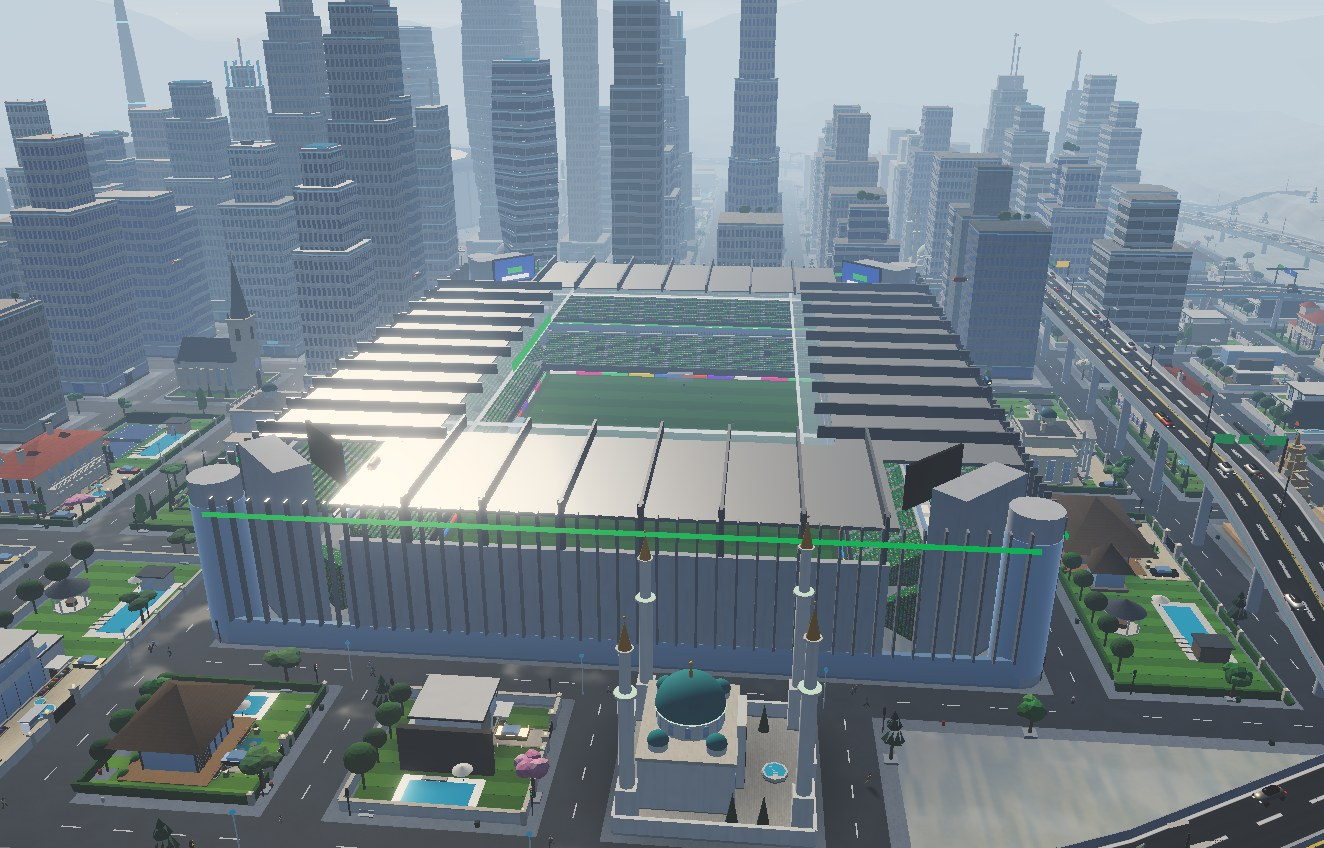
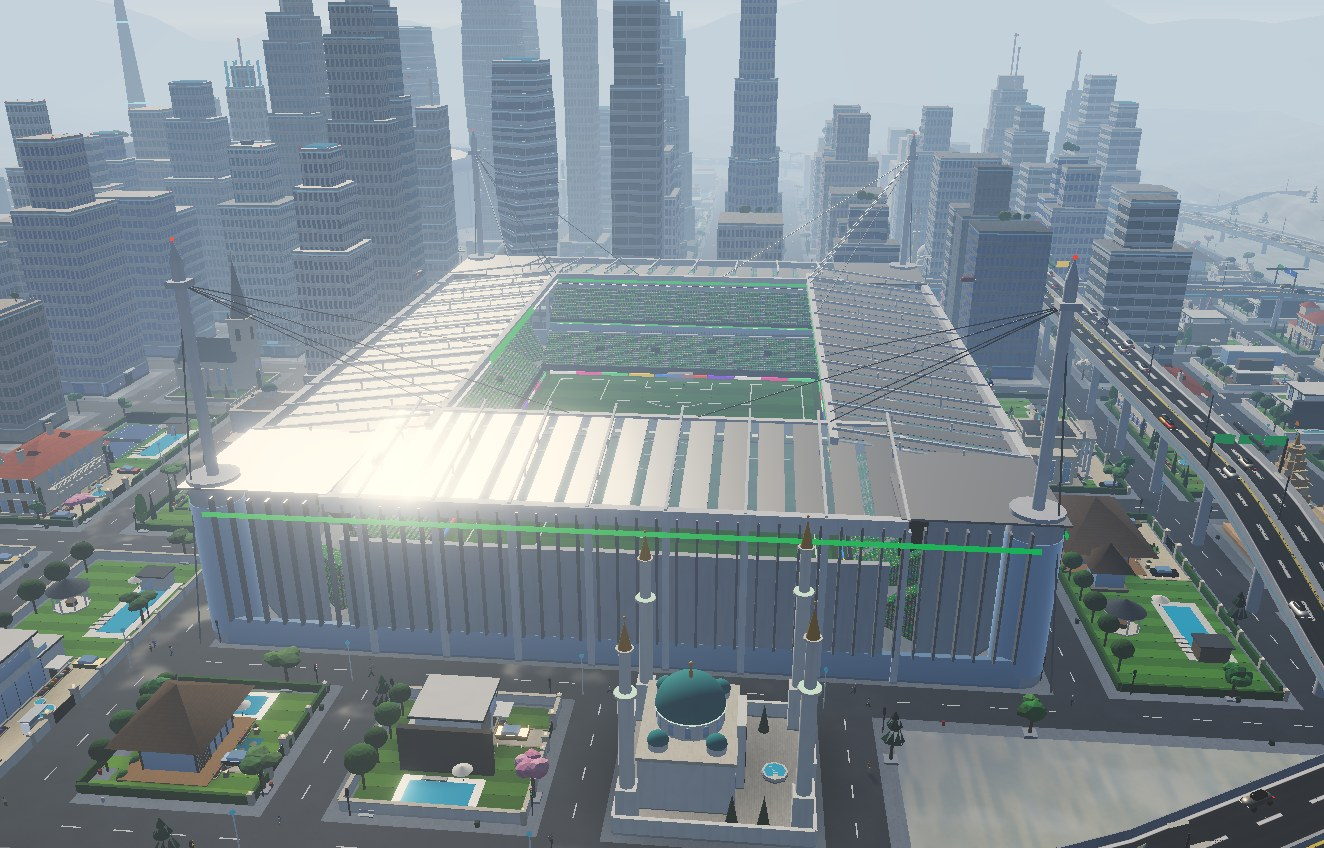
Stadium roof: panelled and translucent bays rising to the pitch, trusses, back beam, lit fascia with floodlights and catwalk, corner roofs, cable-stayed masts
Claude-Session: https://claude.ai/code/session_014yo4DpHJhzR4RbKay17FEp

diff --git a/src/explorer/venues.ts b/src/explorer/venues.ts
@@ -192,6 +192,21 @@ export function footballStadium(out: DistrictData, add: Add, b: Building, warm: 
     { off: endFront, len: Wp + 14, rot: Math.PI / 2, main: false },
     { off: endFront, len: Wp + 14, rot: -Math.PI / 2, main: false },
   ];
+  // the roof: same height on every stand, rising 4 m from the back columns to the leading edge
+  const standTop = upperY + upperRows * upperRowH;
+  const roofY = standTop + 7;
+  const rise = 4;
+  // where the stay cables from the corner masts meet the leading edge
+  const anchors: [number, number, number][] = [];
+  // a straight member between two points in the pitch frame (cables, braces)
+  const member = (p0: [number, number, number], p1: [number, number, number], w: number, mat: DMat, col: string) => {
+    const dx = p1[0] - p0[0];
+    const dy = p1[1] - p0[1];
+    const dz = p1[2] - p0[2];
+    const len = Math.hypot(dx, dy, dz);
+    // yaw sends local z along the horizontal direction, a negative pitch lifts it to the slope
+    A('box', mat, (p0[0] + p1[0]) / 2, (p0[1] + p1[1]) / 2 - w / 2, (p0[2] + p1[2]) / 2, w, w, len, col, Math.atan2(dx, dz), -Math.asin(dy / len));
+  };
   for (const st of stands) {
     // the stand at offset `off` from the centre on the side the rotation points away from
     const ox = Math.sin(st.rot) * -st.off;
@@ -222,20 +237,64 @@ export function footballStadium(out: DistrictData, add: Add, b: Building, warm: 
       const u = -st.len / 2 + (k * st.len) / 5;
       add2('box', 'dark', sx(u, 7), 1.2 + 7 * 0.6 * rowH / rowD, sz(u, 7), 2.4, 2.4, 2.2, '#16181c', st.rot);
     }
-    // roof: a cantilevered slab with trusses and a translucent leading edge, floodlights along it
-    // the roof floats well above the last row, carried on columns at the back
-    const roofY = top + 7;
-    const roofDepth = backAll + 6;
-    add2('box', 'metal', sx(0, backAll - roofDepth / 2 + 1), roofY, sz(0, backAll - roofDepth / 2 + 1), st.len + 4, 0.6, roofDepth, '#dfe3e8', st.rot);
-    add2('box', 'skylight', sx(0, backAll - roofDepth - 2), roofY + 0.1, sz(0, backAll - roofDepth - 2), st.len + 4, 0.25, 6, '#d8f0ff', st.rot);
-    for (let k = 0; k <= Math.floor(st.len / 12); k++) {
-      const u = -st.len / 2 + k * 12;
-      add2('box', 'metal', sx(u, backAll - roofDepth / 2), roofY + 0.6, sz(u, backAll - roofDepth / 2), 0.5, 2.2, roofDepth + 4, '#b8bcc4', st.rot);
-      add2('box', 'metal', sx(u, backAll + 0.6), 0, sz(u, backAll + 0.6), 0.9, roofY + 2.8, 0.9, '#b8bcc4', st.rot);
+    // roof: alternating metal panels and translucent strips running from the back beam to the
+    // leading edge, tilted up towards the pitch, with exposed trusses on top
+    const bBack = backAll + 1.2;
+    const roofDepth = backAll + 7;
+    const bFront = bBack - roofDepth;
+    const bMid = (bBack + bFront) / 2;
+    const tilt = -Math.atan(rise / roofDepth);
+    const slab = roofDepth / Math.cos(tilt);
+    const span = st.len + 6;
+    const bay = 6;
+    const bays = Math.round(span / bay);
+    for (let k = 0; k < bays; k++) {
+      const u = -span / 2 + (k + 0.5) * (span / bays);
+      add2('box', 'metal', sx(u - 0.8, bMid), roofY + rise / 2, sz(u - 0.8, bMid), span / bays - 1.6, 0.35, slab, k % 2 ? '#e9ecf0' : '#dde1e6', st.rot, tilt);
+      add2('box', 'skylight', sx(u + (span / bays) / 2 - 0.8, bMid), roofY + rise / 2 + 0.05, sz(u + (span / bays) / 2 - 0.8, bMid), 1.6, 0.25, slab, '#cfeaff', st.rot, tilt);
     }
-    add2('box', 'glow', sx(0, backAll - roofDepth - 4.6), roofY - 0.2, sz(0, backAll - roofDepth - 4.6), st.len, 0.5, 0.6, '#f4faff', st.rot);
-    // signage on the main stand roof fascia
-    if (st.main) add2('box', 'glow', sx(0, backAll - roofDepth - 5), roofY + 0.5, sz(0, backAll - roofDepth - 5), 40, 2, 0.2, home, st.rot);
+    // primary trusses: a deep top chord over every second bay, posts and a diagonal web
+    for (let k = 0; k <= bays; k += 2) {
+      const u = -span / 2 + k * (span / bays);
+      add2('box', 'plaster', sx(u, bMid), roofY + rise / 2 + 2.1, sz(u, bMid), 0.45, 0.45, slab + 1, '#f4f6f8', st.rot, tilt);
+      for (const f of [0, 0.33, 0.66]) {
+        const b = bBack - roofDepth * f;
+        const y = roofY + rise * f;
+        add2('box', 'plaster', sx(u, b), y + 0.35, sz(u, b), 0.3, 1.9 - f * 0.9, 0.3, '#f4f6f8', st.rot);
+      }
+      // the back column and its tie-down
+      add2('box', 'plaster', sx(u, bBack), 0, sz(u, bBack), 1.1, roofY + 0.4, 1.1, '#e8ebef', st.rot);
+    }
+    // a white box beam along the back, and the leading edge: a deep fascia with an LED band in
+    // club colours on its face, floodlights beneath and a maintenance catwalk
+    add2('box', 'plaster', sx(0, bBack), roofY - 0.4, sz(0, bBack), span, 2.6, 1.6, '#eef0f3', st.rot);
+    const frontY = roofY + rise;
+    add2('box', 'plaster', sx(0, bFront), frontY - 1.9, sz(0, bFront), span, 2.6, 1.4, '#f4f6f8', st.rot);
+    add2('box', 'glow', sx(0, bFront - 0.72), frontY - 1.4, sz(0, bFront - 0.72), span, 0.7, 0.08, st.main ? '#ffffff' : home, st.rot);
+    add2('box', 'metal', sx(0, bFront + 2.2), frontY - 2.6, sz(0, bFront + 2.2), span, 0.25, 1.4, '#6a6f78', st.rot);
+    for (let k = 0; k < Math.floor(span / 3); k++) {
+      const u = -span / 2 + 1.5 + k * 3;
+      add2('box', 'glow', sx(u, bFront + 0.3), frontY - 2.35, sz(u, bFront + 0.3), 1.1, 0.45, 0.7, '#fff8e6', st.rot);
+    }
+    // signage on the main stand fascia
+    if (st.main) add2('box', 'glow', sx(0, bFront - 0.78), frontY - 1.75, sz(0, bFront - 0.78), 42, 2, 0.06, home, st.rot);
+    for (const f of [-0.42, -0.14, 0.14, 0.42]) anchors.push([sx(st.len * f, bFront), frontY + 0.7, sz(st.len * f, bFront)]);
+  }
+  // corner roofs close the gaps between the stands, each with a fascia joining the two edges
+  for (const s of [-1, 1]) for (const t of [-1, 1]) {
+    const u0 = s * ((L + 10) / 2 + 3);
+    const u1 = s * (OW - 1);
+    const v0 = t * ((Wp + 14) / 2 + 3);
+    const v1 = t * (OD - 1);
+    const cx = (u0 + u1) / 2;
+    const cz = (v0 + v1) / 2;
+    A('box', 'metal', cx, roofY + rise / 2, cz, Math.abs(u1 - u0) + 2, 0.35, Math.abs(v1 - v0) + 2, '#e3e6ea');
+    A('box', 'skylight', cx, roofY + rise / 2 + 0.05, cz, Math.abs(u1 - u0) * 0.5, 0.25, Math.abs(v1 - v0) * 0.5, '#cfeaff');
+    // fascia from the end of the side-stand edge to the end of the end-stand edge
+    const pSide: [number, number, number] = [s * ((L + 16) / 2), roofY + rise - 1.9, t * (sideFront - 5.8)];
+    const pEnd: [number, number, number] = [s * (endFront - 5.8), roofY + rise - 1.9, t * ((Wp + 20) / 2)];
+    member(pSide, pEnd, 2.4, 'plaster', '#f4f6f8');
+    member([pSide[0], pSide[1] + 0.9, pSide[2] - t * 0.7], [pEnd[0] - s * 0.7, pEnd[1] + 0.9, pEnd[2]], 0.7, 'glow', home);
   }
   // corner fills with giant screens above
   for (const s of [-1, 1]) for (const t of [-1, 1]) {
@@ -243,11 +302,12 @@ export function footballStadium(out: DistrictData, add: Add, b: Building, warm: 
     const cv2 = t * (W2 + 18);
     const rot = Math.atan2(s, t);
     for (let k = 0; k < 18; k++) A('box', 'crowd', cu2 - s * (10 - k * 0.6) * 0.7, 1.2, cv2 - t * (10 - k * 0.6) * 0.7, 12, (k + 1) * rowH * 1.1, 0.9, seat, rot);
-    A('box', 'plaster', cu2 + s * 4, 0, cv2 + t * 4, 16, 30, 6, '#c8ccd2', rot);
-    A('box', 'dark', cu2 - s * 2, 24, cv2 - t * 2, 14, 7.5, 0.6, '#101216', rot);
-    A('box', 'glow', cu2 - s * 2.35, 24.4, cv2 - t * 2.35, 13.2, 6.7, 0.1, '#1a4a9a', rot);
-    A('box', 'glow', cu2 - s * 2.4, 26.9, cv2 - t * 2.4, 5, 1.6, 0.1, home, rot);
-    A('box', 'glow', cu2 - s * 2.4, 25, cv2 - t * 2.4, 9, 1.2, 0.1, '#ffffff', rot);
+    // a pylon under the corner roof carries the giant screen
+    A('box', 'plaster', cu2 + s * 4, 0, cv2 + t * 4, 16, roofY + 1, 6, '#c8ccd2', rot);
+    A('box', 'dark', cu2 - s * 2, roofY - 10, cv2 - t * 2, 14, 7.5, 0.6, '#101216', rot);
+    A('box', 'glow', cu2 - s * 2.35, roofY - 9.6, cv2 - t * 2.35, 13.2, 6.7, 0.1, '#1a4a9a', rot);
+    A('box', 'glow', cu2 - s * 2.4, roofY - 7.1, cv2 - t * 2.4, 5, 1.6, 0.1, home, rot);
+    A('box', 'glow', cu2 - s * 2.4, roofY - 9, cv2 - t * 2.4, 9, 1.2, 0.1, '#ffffff', rot);
   }
 
   // ── facade: finned cladding with a lit band, stair towers, entrances, a fan plaza
@@ -261,6 +321,23 @@ export function footballStadium(out: DistrictData, add: Add, b: Building, warm: 
       A('box', 'metal', pu, 5, pv, rot ? 1.2 : 0.35, fh - 5, rot ? 0.35 : 1.2, k % 2 ? '#e6e9ee' : '#d4d8de');
     }
     A('box', 'glow', u + (rot ? Math.sign(u) * 1.4 : 0), fh - 3, v + (rot ? 0 : Math.sign(v) * 1.4), rot ? 0.2 : len, 0.8, rot ? len : 0.2, home);
+  }
+  // four masts rise from the stair towers; stay cables hold the leading edges of the roof
+  for (const s of [-1, 1]) for (const t of [-1, 1]) {
+    const mx = s * (OW - 4);
+    const mz = t * (OD - 4);
+    const mTop = fh + 36;
+    A('cyl', 'plaster', mx, fh + 2, mz, 1.8, mTop - fh - 2, 1.8, '#f4f6f8');
+    A('cone', 'plaster', mx, mTop, mz, 1.8, 3, 1.8, '#f4f6f8');
+    A('sphere', 'glow', mx, mTop + 3, mz, 0.6, 0.6, 0.6, '#ff3426');
+    A('box', 'plaster', mx, mTop - 4, mz, 3, 1, 3, '#e8ebef');
+    const near = anchors
+      .map((a) => ({ a, d: Math.hypot(a[0] - mx, a[2] - mz) }))
+      .sort((p, q) => p.d - q.d)
+      .slice(0, 4);
+    for (const { a } of near) member([mx, mTop - 3.6, mz], a, 0.16, 'metal', '#d8dce2');
+    // back-stays down to the ground
+    member([mx, mTop - 3.6, mz], [mx + s * 4.5, 0.2, mz + t * 4.5], 0.2, 'metal', '#d8dce2');
   }
   for (const s of [-1, 1]) for (const t of [-1, 1]) {
     A('cyl', 'plaster', s * (OW - 4), 0, t * (OD - 4), 8, fh + 2, 8, '#d4d8de');

diff --git a/PHASE2_REPORT.md b/PHASE2_REPORT.md
@@ -542,6 +542,14 @@ Requested: "Make a basketball NBA sized stadium, make a football Premier League 
   - Tests now assert that every pitch marking is above 0.16 m and every court marking above 0.23 m.
   - The stadium and court photos in `docs/screenshots/venues/` were re-shot.
 
+**Follow-up: stadium roof.** Requested: "make the stadium roofs look better". Before, each stand had a flat grey slab with thin ribs, and the corners were open.
+- **Panels.** The roof is now 6 m bays of alternating metal panels (two tones) and translucent strips, tilted to rise 4 m from the back to the leading edge.
+- **Structure.** White trusses with top chords and posts sit over every second bay. Back columns carry a white box beam.
+- **Leading edge.** A deep white fascia carries an LED band in club colours (white on the main stand, which also has a lit sign), a row of floodlights every 3 m beneath it, and a catwalk.
+- **Corners.** Corner roofs close the gaps, with diagonal fascias and LED bands joining the stand edges. The giant screens now hang under the corner roofs from pylons.
+- **Masts.** Four masts rise from the stair towers. Each has red beacons, four stay cables to the nearest points of the leading edges, and a back-stay to the ground.
+- **Photos.** `docs/screenshots/venues/stadium-roof.jpg` and `stadium-roof-night.jpg` are new; the stadium exterior, aerial and stands photos were re-shot.
+
 ## Limitations and unfinished items
 
 - **Frame-rate targets unproven** (55 fps at 5× in Universe; 60 fps with ≥ 150 figures on medium): no GPU in this environment. Measured relative to the baseline under software rendering, the current build is 2–3× slower at medium (see Phase 4).
